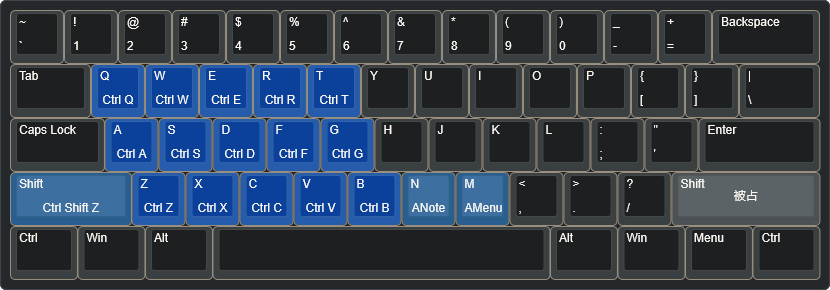
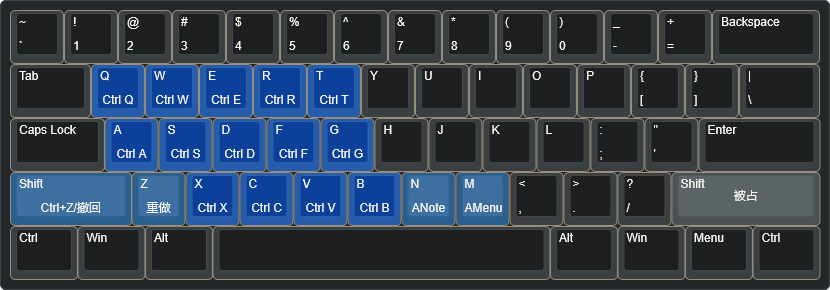
enhance: switch RShift layout ctrl+z key

Changed region(s): [[0.1506, 0.5897, 0.241, 0.7759], [0.0301, 0.6828, 0.1205, 0.7448]]

diff --git a/src/Tauri/src-tauri/src/ad_shortcut.rs b/src/Tauri/src-tauri/src/ad_shortcut.rs
@@ -634,7 +634,6 @@ fn layer_shift_r(
             Key::KeyF => Some(enigo::Key::F),
             Key::KeyG => Some(enigo::Key::G),
 
-            Key::KeyZ => Some(enigo::Key::Z),
             Key::KeyX => Some(enigo::Key::X),
             Key::KeyC => Some(enigo::Key::C),
             Key::KeyV => Some(enigo::Key::V),
@@ -648,9 +647,13 @@ fn layer_shift_r(
 
     // 其他
     match event_type {
-        EventType::KeyPress(Key::ShiftLeft) => {
+        EventType::KeyPress(Key::KeyZ) => {
             simu_key(enigo, &state, enigo::Key::Control, Press); simu_key(enigo, &state, enigo::Key::Shift, Press); simu_key(enigo, &state, enigo::Key::Z, Click);
             simu_key(enigo, &state, enigo::Key::Shift, Release); simu_key(enigo, &state, enigo::Key::Control, Release);
+            return HandlerResult::Block
+        }
+        EventType::KeyPress(Key::ShiftLeft) => {
+           simu_key(enigo, &state, enigo::Key::Control, Press); simu_key(enigo, &state, enigo::Key::Z, Click); simu_key(enigo, &state, enigo::Key::Control, Release);
             return HandlerResult::Block
         }
         EventType::KeyPress(Key::KeyI) => {

diff --git a/docs/zh/quick_keys/keyboard-layout-backup.md b/docs/zh/quick_keys/keyboard-layout-backup.md
@@ -80,7 +80,7 @@
 ["~\n`","!\n1","@\n2","#\n3","$\n4","%\n5","^\n6","&\n7","*\n8","(\n9",")\n0","_\n-","+\n=",{w:2},"Backspace"],
 [{w:1.5},"Tab",{c:"#407DD5"},"Q\n\n\n\n\n\n\n\n\n\nCtrl Q","W\n\n\n\n\n\n\n\n\n\nCtrl W","E\n\n\n\n\n\n\n\n\n\nCtrl E","R\n\n\n\n\n\n\n\n\n\nCtrl R","T\n\n\n\n\n\n\n\n\n\nCtrl T",{c:"#cccccc"},"Y","U","I","O","P","{\n[","}\n]",{w:1.5},"|\n\\"],
 [{w:1.75},"Caps Lock",{c:"#407DD5"},"A\n\n\n\n\n\n\n\n\n\nCtrl A","S\n\n\n\n\n\n\n\n\n\nCtrl S","D\n\n\n\n\n\n\n\n\n\nCtrl D","F\n\n\n\n\n\n\n\n\n\nCtrl F","G\n\n\n\n\n\n\n\n\n\nCtrl G",{c:"#cccccc"},"H","J","K","L",":\n;","\"\n'",{w:2.25},"Enter"],
-[{c:"#2D6CA1",w:2.25},"Shift\n\n\n\n\n\n\n\n\n\nCtrl Shift Z",{c:"#407DD5"},"Z\n\n\n\n\n\n\n\n\n\nCtrl Z","X\n\n\n\n\n\n\n\n\n\nCtrl X","C\n\n\n\n\n\n\n\n\n\nCtrl C","V\n\n\n\n\n\n\n\n\n\nCtrl V","B\n\n\n\n\n\n\n\n\n\nCtrl B",{c:"#2D6CA1"},"N\n\n\n\n\n\n\n\n\n\nANote","M\n\n\n\n\n\n\n\n\n\nAMenu",{c:"#cccccc"},"<\n,",">\n.","?\n/",{c:"#615555",w:2.75},"Shift\n\n\n\n\n\n\n\n\n被占"],
+[{c:"#2D6CA1",w:2.25},"Shift\n\n\n\n\n\n\n\n\n\nCtrl+Z/撤回","Z\n\n\n\n\n\n\n\n\n\n重做",{c:"#407DD5"},"X\n\n\n\n\n\n\n\n\n\nCtrl X","C\n\n\n\n\n\n\n\n\n\nCtrl C","V\n\n\n\n\n\n\n\n\n\nCtrl V","B\n\n\n\n\n\n\n\n\n\nCtrl B",{c:"#2D6CA1"},"N\n\n\n\n\n\n\n\n\n\nANote","M\n\n\n\n\n\n\n\n\n\nAMenu",{c:"#cccccc"},"<\n,",">\n.","?\n/",{c:"#615555",w:2.75},"Shift\n\n\n\n\n\n\n\n\n被占"],
 [{c:"#cccccc",w:1.25},"Ctrl",{w:1.25},"Win",{w:1.25},"Alt",{a:7,w:6.25},"",{a:4,w:1.25},"Alt",{w:1.25},"Win",{w:1.25},"Menu",{w:1.25},"Ctrl"]
 ```
 

diff --git a/docs/zh/quick_keys/Tutorial.md b/docs/zh/quick_keys/Tutorial.md
@@ -63,6 +63,12 @@ Caps 与其子层与 Shift 按键完全兼容，**可以同时按住 Caps 和 Sh
 
 ![](../../assets/keyboard-layout-rshift.png)
 
+> 注意Z使用的不是Ctrl层，而是编辑器层的规律
+> 左Shift用作撤回，而Z用左重做
+> - 一是手感的考虑 (左Shift比Z好按)
+> - 二是左右性的考虑 (保持左键向左，右键向右的思维逻辑符合使用直觉)
+>   (历史堆栈的左右 (网页浏览器/资源管理器等软件的左右历史))
+
 ## 空格-编辑器层 (弃用)
 
 > 一开始设计的是空格，后来发现打字较快时会有点卡，并且在非 AnyMenu 上更难以应用这种方案，需要做很复杂的判断逻辑。
